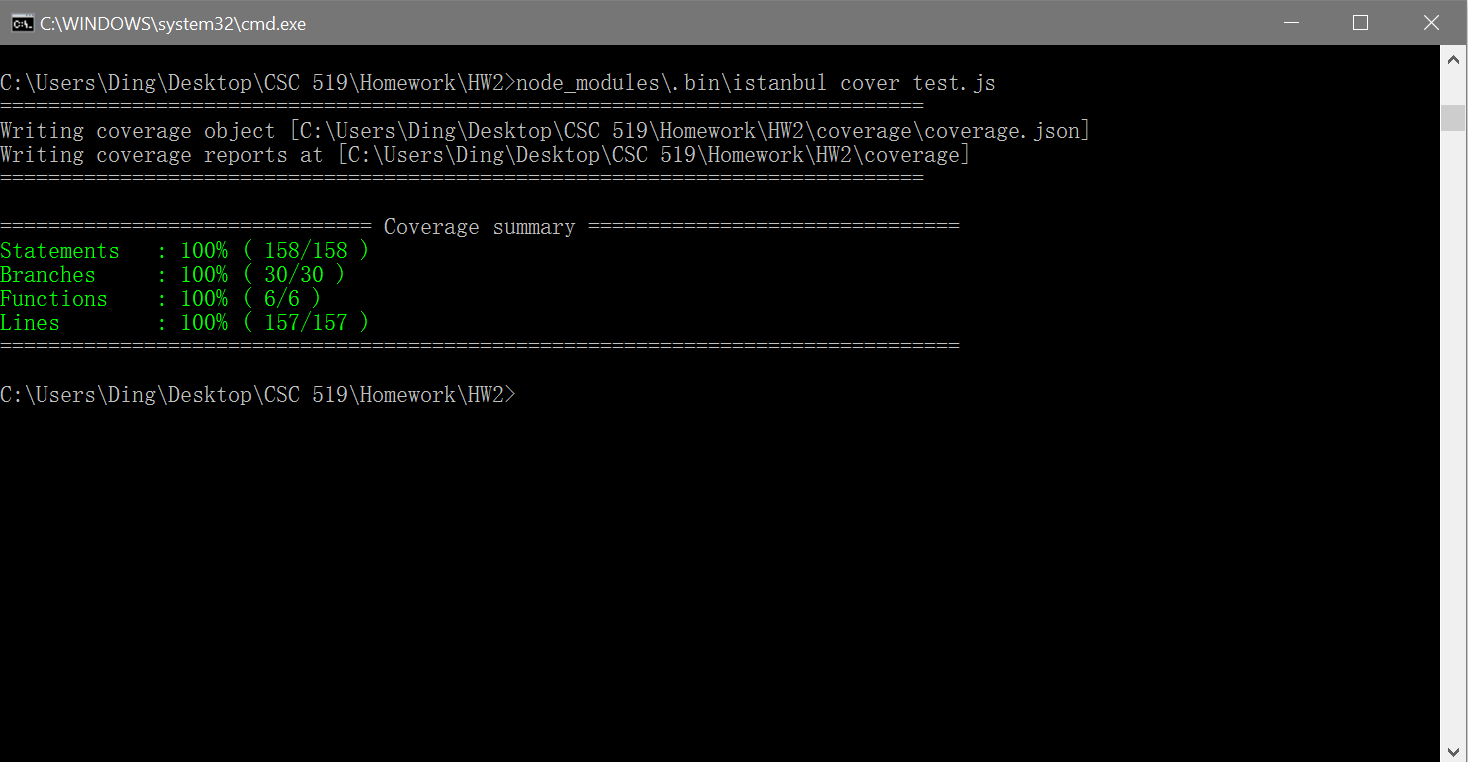
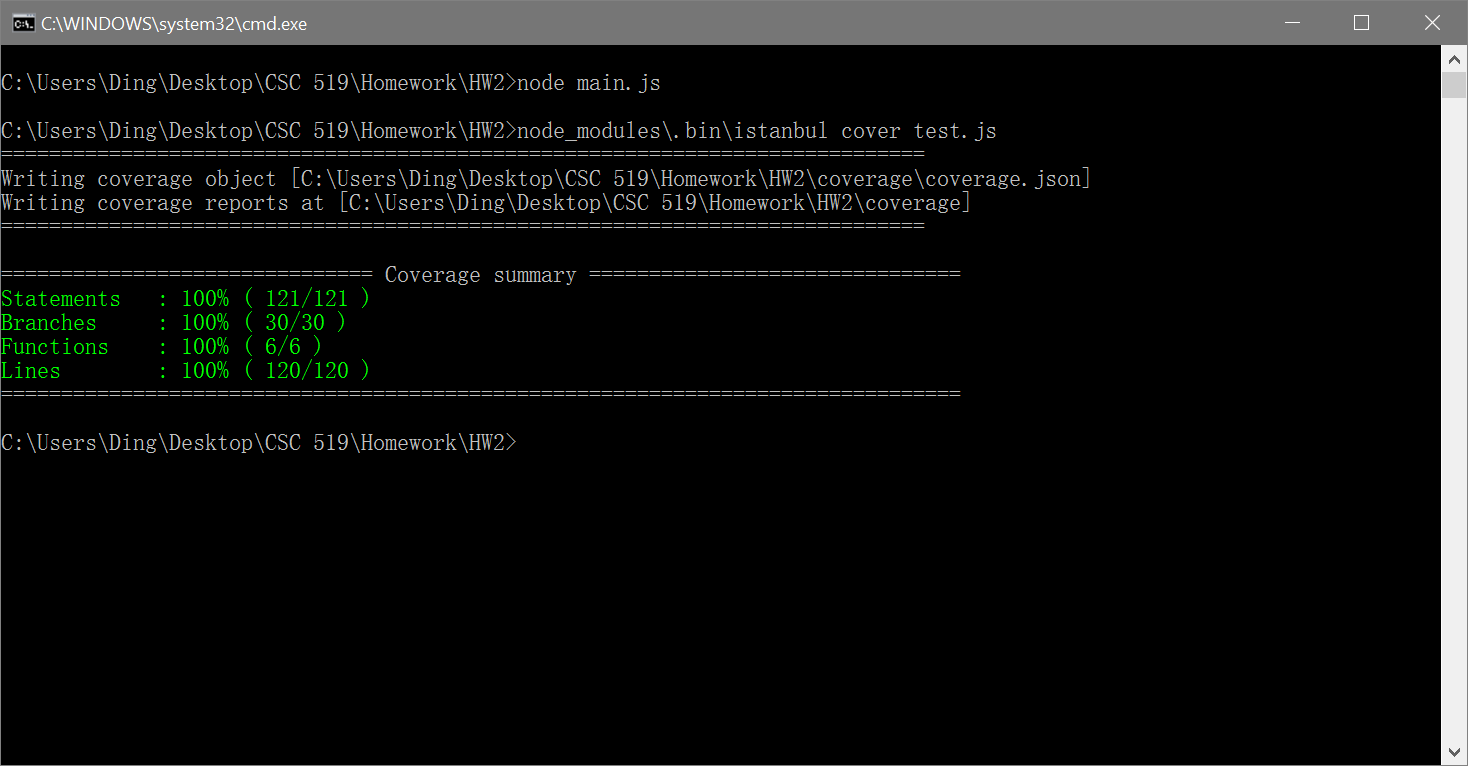
Update screenshots. All work done.

Changed region(s): [[0.0, 0.0906, 0.7357, 0.6037], [0.0, 0.0604, 1.0, 1.0], [0.0, 0.0, 0.2146, 0.0604]]

diff --git a/test.js b/test.js
@@ -1,41 +1,41 @@
 var subject = require('./subject.js');
 var mock = require('mock-fs');
-subject.inc(6,undefined);
-subject.inc(6,"Salt");
-subject.inc(-2,undefined);
-subject.inc(-2,"Salt");
-subject.weird(9,2,44,"strict");
-subject.weird(9,2,44,"werw");
-subject.weird(9,2,44,"strictSalt");
-subject.weird(9,2,44,"");
-subject.weird(9,2,31,"strict");
-subject.weird(9,2,31,"werw");
-subject.weird(9,2,31,"strictSalt");
-subject.weird(9,2,31,"");
-subject.weird(9,-4,44,"strict");
-subject.weird(9,-4,44,"werw");
-subject.weird(9,-4,44,"strictSalt");
-subject.weird(9,-4,44,"");
-subject.weird(9,-4,31,"strict");
-subject.weird(9,-4,31,"werw");
-subject.weird(9,-4,31,"strictSalt");
-subject.weird(9,-4,31,"");
-subject.weird(0,2,44,"strict");
-subject.weird(0,2,44,"werw");
-subject.weird(0,2,44,"strictSalt");
-subject.weird(0,2,44,"");
-subject.weird(0,2,31,"strict");
-subject.weird(0,2,31,"werw");
-subject.weird(0,2,31,"strictSalt");
-subject.weird(0,2,31,"");
-subject.weird(0,-4,44,"strict");
-subject.weird(0,-4,44,"werw");
-subject.weird(0,-4,44,"strictSalt");
-subject.weird(0,-4,44,"");
-subject.weird(0,-4,31,"strict");
-subject.weird(0,-4,31,"werw");
-subject.weird(0,-4,31,"strictSalt");
-subject.weird(0,-4,31,"");
+subject.inc(9,undefined);
+subject.inc(9,"Salt");
+subject.inc(-1,undefined);
+subject.inc(-1,"Salt");
+subject.weird(9,3,52,"strict");
+subject.weird(9,3,52,"werw");
+subject.weird(9,3,52,"strictSalt");
+subject.weird(9,3,52,"");
+subject.weird(9,3,33,"strict");
+subject.weird(9,3,33,"werw");
+subject.weird(9,3,33,"strictSalt");
+subject.weird(9,3,33,"");
+subject.weird(9,-11,52,"strict");
+subject.weird(9,-11,52,"werw");
+subject.weird(9,-11,52,"strictSalt");
+subject.weird(9,-11,52,"");
+subject.weird(9,-11,33,"strict");
+subject.weird(9,-11,33,"werw");
+subject.weird(9,-11,33,"strictSalt");
+subject.weird(9,-11,33,"");
+subject.weird(6,3,52,"strict");
+subject.weird(6,3,52,"werw");
+subject.weird(6,3,52,"strictSalt");
+subject.weird(6,3,52,"");
+subject.weird(6,3,33,"strict");
+subject.weird(6,3,33,"werw");
+subject.weird(6,3,33,"strictSalt");
+subject.weird(6,3,33,"");
+subject.weird(6,-11,52,"strict");
+subject.weird(6,-11,52,"werw");
+subject.weird(6,-11,52,"strictSalt");
+subject.weird(6,-11,52,"");
+subject.weird(6,-11,33,"strict");
+subject.weird(6,-11,33,"werw");
+subject.weird(6,-11,33,"strictSalt");
+subject.weird(6,-11,33,"");
 mock({"path/fileExists":{},"pathWithContent":{"file1":"text content"},"pathWithoutContent":{"file1":""},"dirWithContent":{"file1":""},"dirWithoutContent":{}});
 	subject.fileTest('dirWithContent','pathWithContent/file1');
 	subject.fileTest('dirWithContent','path/fileNotExists');
@@ -47,10 +47,10 @@ mock({"path/fileExists":{},"pathWithContent":{"file1":"text content"},"pathWitho
 	subject.fileTest('dirWithoutContent','path/fileNotExists');
 	subject.fileTest('dirWithoutContent','pathWithoutContent/file1');
 mock.restore();
-subject.normalize("079-002-2274");
-subject.format("924-673-9452","###-###-####",true);
-subject.format("924-673-9452","###-###-####",{normalize:true});
-subject.format("924-673-9452","###-###-####",false);
-subject.format("924-673-9452","###-###-####",{normalize:false});
-subject.blackListNumber("212-780-4222");
+subject.normalize("537-974-0834");
+subject.format("435-034-9082","###.###.####",true);
+subject.format("435-034-9082","###.###.####",{normalize:true});
+subject.format("435-034-9082","###.###.####",false);
+subject.format("435-034-9082","###.###.####",{normalize:false});
+subject.blackListNumber("212-114-3052");
 subject.blackListNumber("");

diff --git a/main.js b/main.js
@@ -152,7 +152,7 @@ function generateTestCases()
 		fillParams(constraints,params,"altvalue") // Put all param optional values into param array
 		
 		// console.log("ALT",altparams)
-		 console.log("P",params)
+		// console.log("P",params)
 		// Prepare function arguments.
 		// var args = Object.keys(params).map( function(k) {return params[k]; }).join(",");
 		// var altargs = Object.keys(altparams).map( function(k) {return altparams[k]; }).join(",");
@@ -547,7 +547,7 @@ function constraints(filePath)
 			});
 
 			
-			console.log( functionConstraints[funcName]);
+			//console.log( functionConstraints[funcName]);
 
 		}
 	});

diff --git a/README.md b/README.md
@@ -4,15 +4,15 @@ By xding3
 ## Execution ##
 0. Direct to the main folder
 1. Install packages:  `npm install`  
-2. Generate test files: `node main.js`
+2. Generate test file: `node main.js`
 3. See coverage: 
 ```
-[Windows] node_modules\.bin\istanbul cover test.js <br>
+[Windows] node_modules\.bin\istanbul cover test.js
 [Other] node_modules/.bin/istanbul cover test.js
 ```
 4. (Optional) See a fully annotated HTML report: 
 ```
-[Windows]start coverage/lcov-report/HW2/subject.js.html <br>
+[Windows]start coverage/lcov-report/HW2/subject.js.html 
 [Other]open coverage/lcov-report/TestGeneration/subject.js.html
 ```
 ## Files ##
@@ -31,5 +31,9 @@ By xding3
 2. Coverage for mystery.js
 
 ![](https://github.ncsu.edu/xding3/HW2/blob/master/Screenshot/mystery.png)
+
+
+## Specification ##
+The main.js is now generating test cases for subject.js. To work on mystery.js, you can replace all the `subject` string in main.js with `mystery`.
 
 
